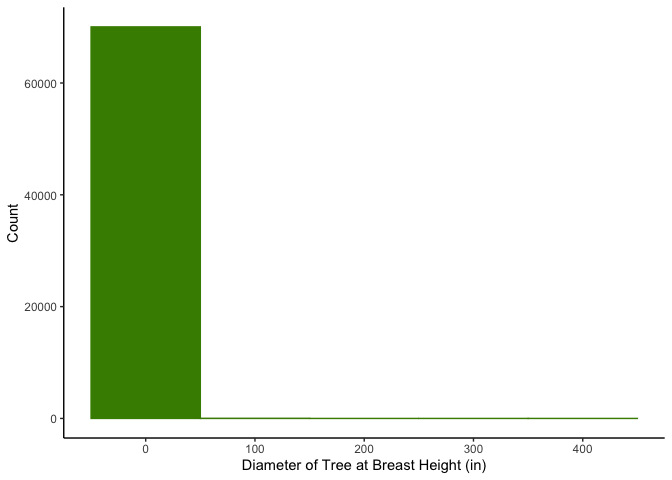
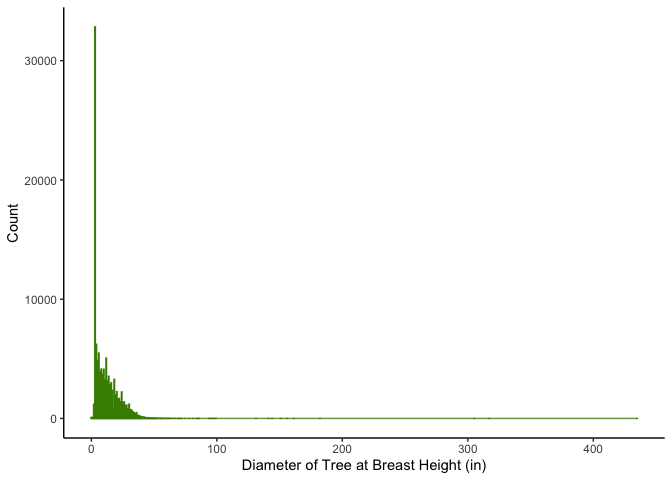
This commit represents changes in task 2. Specifically, exercise 3 and 4 were corrected.

diff --git a/mini-project-1.md b/mini-project-1.md
@@ -571,83 +571,7 @@ count_NA_long %>%
 
 ![](mini-project-1_files/figure-gfm/unnamed-chunk-8-1.png)<!-- -->
 
-#### **<span style="color: deeppink;">Exercise 2: Create a new variable based on other variables in your data (only if it makes sense)</span>**
-
-For this section of my data analysis, I will create a categorical
-variable (decade) from the existing numerical variable (date_planted).
-
-``` r
-vancouver_trees$year_planted <- as.numeric(format(vancouver_trees$date_planted,'%Y'))
-```
-
-``` r
-minimum_year <- min(vancouver_trees$year_planted, na.rm = TRUE)
-maximum_year <- max(vancouver_trees$year_planted, na.rm = TRUE)
-
-print(minimum_year)
-```
-
-    ## [1] 1989
-
-``` r
-print(maximum_year)
-```
-
-    ## [1] 2019
-
-After extracting the year from the date, and determining the minimum and
-maximum values for year stored in this dataset, I can now decide on the
-factor levels which will be as follows: 1980s, 1990s, 2000s, 2010s,
-2020s. I will now convert this numeric variable into a categorical
-variable below!
-
-``` r
-vancouver_trees_data_1980s <- vancouver_trees %>%
-  filter(1980<=year_planted, year_planted<1990) %>%
-  mutate(year = '1980s')
-
-vancouver_trees_data_1990s <- vancouver_trees %>%
-  filter(1990<=year_planted, year_planted<2000) %>%
-  mutate(year = '1990s')
-
-vancouver_trees_data_2000s <- vancouver_trees %>%
-  filter(2000<=year_planted, year_planted<2010) %>%
-  mutate(year = '2000s')
-
-vancouver_trees_data_2010s <- vancouver_trees %>%
-  filter(2010<=year_planted, year_planted<2020) %>%
-  mutate(year = '2010s')
-
-vancouver_trees_data_2020s <- vancouver_trees %>%
-  filter(2020<=year_planted) %>%
-  mutate(year = '2020s')
-
-vancouver_trees<- bind_rows(vancouver_trees_data_1980s,vancouver_trees_data_1990s,vancouver_trees_data_2000s,vancouver_trees_data_2010s,vancouver_trees_data_2020s)
-
-print(vancouver_trees)
-```
-
-    ## # A tibble: 70,063 × 22
-    ##    tree_id civic_number std_st…¹ genus…² speci…³ culti…⁴ commo…⁵ assig…⁶ root_…⁷
-    ##      <dbl>        <dbl> <chr>    <chr>   <chr>   <chr>   <chr>   <chr>   <chr>  
-    ##  1   31395         2105 W 32ND … TILIA   CORDATA <NA>    LITTLE… N       N      
-    ##  2   31396         2105 W 32ND … TILIA   CORDATA <NA>    LITTLE… N       N      
-    ##  3   30343         3621 W 30TH … PRUNUS  CERASI… ATROPU… PISSAR… N       N      
-    ##  4   30356         3727 W 30TH … PRUNUS  CERASI… ATROPU… PISSAR… N       N      
-    ##  5   30359         3749 W 30TH … PRUNUS  CERASI… ATROPU… PISSAR… N       N      
-    ##  6   83393         2888 HIGHBUR… PRUNUS  CERASI… ATROPU… PISSAR… N       N      
-    ##  7   38849         2198 W 41ST … PRUNUS  SERRUL… KWANZAN KWANZA… N       N      
-    ##  8  121796         5003 BOUNDAR… ACER    RUBRUM  RED SU… RED SU… N       N      
-    ##  9  121800         5035 BOUNDAR… ACER    RUBRUM  RED SU… RED SU… N       N      
-    ## 10  121802         5053 BOUNDAR… ACER    RUBRUM  RED SU… RED SU… N       N      
-    ## # … with 70,053 more rows, 13 more variables: plant_area <chr>,
-    ## #   on_street_block <dbl>, on_street <chr>, neighbourhood_name <chr>,
-    ## #   street_side_name <chr>, height_range_id <dbl>, diameter <dbl>, curb <chr>,
-    ## #   date_planted <date>, longitude <dbl>, latitude <dbl>, year_planted <dbl>,
-    ## #   year <chr>, and abbreviated variable names ¹std_street, ²genus_name,
-    ## #   ³species_name, ⁴cultivar_name, ⁵common_name, ⁶assigned, ⁷root_barrier
-
-#### **<span style="color: deeppink;">Exercise 3: Plot the distribution of a numeric variable</span>**
+### **<span style="color: deeppink;">Exercise 2: Plot the distribution of a numeric variable</span>**
 
 For this exercise, I intend to plot the distribution of the
 *height_range_id* of trees in Vancouver. I have created a histogram
@@ -661,9 +585,9 @@ vancouver_trees%>%
   labs(x = "Height Range of Tree (x10 ft)", y = "Count")
 ```
 
-![](mini-project-1_files/figure-gfm/unnamed-chunk-12-1.png)<!-- -->
+![](mini-project-1_files/figure-gfm/unnamed-chunk-9-1.png)<!-- -->
 
-#### **<span style="color: deeppink;">Exercise 4: Make a new tibble with a subset of your data, with variables and observations that you are interested in exploring</span>**
+### **<span style="color: deeppink;">Exercise 3: Create a new variable based on other variables in your data (only if it makes sense)</span>**
 
 The vancouver_trees dataset contains a variable named *height_range_ID*.
 This variable is stored as a numeric variable; however, in reality, it
@@ -682,27 +606,58 @@ values replaced with NA, and a new column has been created called
 ‘height’ which is a factor with the levels previously described.
 
 ``` r
-vancouver_trees <- vancouver_trees %>%
+vancouver_trees_height_factor <- vancouver_trees %>%
   mutate('height' = as.factor(height_range_id))
 height_factors <- c('0' = "0-10", '1' = "10-20", '2' = "20-30", '3' = "30-40", '4' = "40-50", '5' = "50-60", '6' = "60-70", '7' = "70-80", '8' = "80-90", '9' = "90-100", '10' = "Above 100")
-vancouver_trees$height <- recode_factor(vancouver_trees$height, !!!height_factors, .ordered = TRUE)
-levels(vancouver_trees$height)
+vancouver_trees_height_factor$height <- recode_factor(vancouver_trees_height_factor$height, !!!height_factors, .ordered = TRUE)
+levels(vancouver_trees_height_factor$height)
 ```
 
     ##  [1] "0-10"      "10-20"     "20-30"     "30-40"     "40-50"     "50-60"    
     ##  [7] "60-70"     "70-80"     "80-90"     "90-100"    "Above 100"
 
-<!----------------------------------------------------------------------------->
+### **<span style="color: deeppink;">Exercise 3: Make a new tibble with a subset of your data, with variables and observations that you are interested in exploring</span>**
 
-# Task 3: Write your research questions (5 points)
+For this exercise, I will create a new tibble, which will contain a
+subset of my data, more specifically the variables that I consider to be
+potentially relevant for my 4 research questions. Lastly, I will print
+the tibble to ensure that it has the correct number of columns and was
+subsetted correctly!
 
-So far, you have chosen a dataset and gotten familiar with it through
-exploring the data. Now it’s time to figure out 4 research questions
-that you would like to answer with your data! Write the 4 questions and
-any additional comments at the end of this deliverable. These questions
-are not necessarily set in stone - TAs will review them and give you
-feedback; therefore, you may choose to pursue them as they are for the
-rest of the project, or make modifications!
+``` r
+irrelevant_variables <- c("tree_id","civic_number","assigned","longitude","latitude")
+
+vancouver_trees_data <- vancouver_trees %>%
+  select(everything(),-irrelevant_variables)
+```
+
+    ## Note: Using an external vector in selections is ambiguous.
+    ## ℹ Use `all_of(irrelevant_variables)` instead of `irrelevant_variables` to silence this message.
+    ## ℹ See <https://tidyselect.r-lib.org/reference/faq-external-vector.html>.
+    ## This message is displayed once per session.
+
+``` r
+print(vancouver_trees_data)
+```
+
+    ## # A tibble: 146,611 × 15
+    ##    std_street    genus…¹ speci…² culti…³ commo…⁴ root_…⁵ plant…⁶ on_st…⁷ on_st…⁸
+    ##    <chr>         <chr>   <chr>   <chr>   <chr>   <chr>   <chr>     <dbl> <chr>  
+    ##  1 W 58TH AV     ULMUS   AMERIC… BRANDON BRANDO… N       N           400 W 58TH…
+    ##  2 W 58TH AV     ZELKOVA SERRATA <NA>    JAPANE… N       N           400 W 58TH…
+    ##  3 WINDSOR ST    STYRAX  JAPONI… <NA>    JAPANE… N       4          4900 WINDSO…
+    ##  4 E 39TH AV     FRAXIN… AMERIC… AUTUMN… AUTUMN… N       4           800 E 39TH…
+    ##  5 WINDSOR ST    ACER    CAMPES… <NA>    HEDGE … N       4          5000 WINDSO…
+    ##  6 W 61ST AV     PYRUS   CALLER… CHANTI… CHANTI… N       B           500 W 61ST…
+    ##  7 SHERBROOKE ST ACER    PLATAN… COLUMN… COLUMN… N       6          4900 SHERBR…
+    ##  8 SHERBROOKE ST ACER    PLATAN… COLUMN… COLUMN… N       6          4900 SHERBR…
+    ##  9 SHERBROOKE ST ACER    PLATAN… COLUMN… COLUMN… N       3          4900 SHERBR…
+    ## 10 E 39TH AV     FRAXIN… AMERIC… AUTUMN… AUTUMN… N       3           700 E 39TH…
+    ## # … with 146,601 more rows, 6 more variables: neighbourhood_name <chr>,
+    ## #   street_side_name <chr>, height_range_id <dbl>, diameter <dbl>, curb <chr>,
+    ## #   date_planted <date>, and abbreviated variable names ¹genus_name,
+    ## #   ²species_name, ³cultivar_name, ⁴common_name, ⁵root_barrier, ⁶plant_area,
+    ## #   ⁷on_street_block, ⁸on_street
 
 <!--- *****START HERE***** --->
 
@@ -783,20 +738,20 @@ vancouver_trees %>%
   summarize(range_diameter = max(diameter)-min(diameter), mean_diameter = mean(diameter), sd_diameter = sd(diameter), IQR_diameter = IQR(diameter))
 ```
 
-    ## # A tibble: 79 × 5
+    ## # A tibble: 97 × 5
     ##    genus_name  range_diameter mean_diameter sd_diameter IQR_diameter
     ##    <chr>                <dbl>         <dbl>       <dbl>        <dbl>
-    ##  1 ABIES                 31            6.94        5.53         8.25
-    ##  2 ACER                 317            5.59        4.42         4   
-    ##  3 AESCULUS              62            9.58       11.6          5   
-    ##  4 ALBIZIA                0            6          NA            0   
-    ##  5 ALNUS                 11            7.75        5.46         9.88
-    ##  6 AMELANCHIER           18.5          3.27        1.90         0   
-    ##  7 BETULA                39            9.05        5.53         5   
-    ##  8 CALOCEDRUS            18.8          6.61        5.19         6   
-    ##  9 CARPINUS              86            5.86        4.05         5   
-    ## 10 CASTANEA              11            5.2         4.92         0   
-    ## # … with 69 more rows
+    ##  1 ABIES                 41.5         12.9         9.71        16.5 
+    ##  2 ACER                 317           10.6         8.76        12   
+    ##  3 AESCULUS              64           23.7         9.57        11   
+    ##  4 AILANTHUS             18.5         15.9         8.64         5.38
+    ##  5 ALBIZIA                0            6          NA            0   
+    ##  6 ALNUS                 40           17.5         8.94        11.4 
+    ##  7 AMELANCHIER           20            3.21        1.79         0   
+    ##  8 ARALIA                 9            6.81        3.92         4.31
+    ##  9 ARAUCARIA             29           11.4         9.92         8.75
+    ## 10 ARBUTUS               27           18.4        10.7         20.8 
+    ## # … with 87 more rows
 
 #### **<span style="color: orange;">Graphing Task</span>**
 
@@ -826,7 +781,7 @@ vancouver_trees %>%
   theme_classic()
 ```
 
-![](mini-project-1_files/figure-gfm/unnamed-chunk-15-1.png)<!-- -->
+![](mini-project-1_files/figure-gfm/unnamed-chunk-13-1.png)<!-- -->
 
 ``` r
 vancouver_trees %>%
@@ -836,7 +791,7 @@ vancouver_trees %>%
   theme_classic()
 ```
 
-![](mini-project-1_files/figure-gfm/unnamed-chunk-16-1.png)<!-- -->
+![](mini-project-1_files/figure-gfm/unnamed-chunk-14-1.png)<!-- -->
 
 ``` r
 optimal_bin_width <- ((IQR(vancouver_trees$diameter))*2)/(length(vancouver_trees$diameter)^(1/3))
@@ -848,7 +803,7 @@ vancouver_trees %>%
   theme_classic()
 ```
 
-![](mini-project-1_files/figure-gfm/unnamed-chunk-17-1.png)<!-- -->
+![](mini-project-1_files/figure-gfm/unnamed-chunk-15-1.png)<!-- -->
 
 ### **<span style="color: deeppink;">Research Question \# 2: Which genus of trees in Vancouver has the greatest diameter?</span>**
 
@@ -873,11 +828,11 @@ print(vancouver_trees_top5)
     ## # A tibble: 5 × 2
     ##   genus_name     n
     ##   <chr>      <int>
-    ## 1 ACER       19544
-    ## 2 PRUNUS      8880
-    ## 3 FRAXINUS    4562
-    ## 4 CARPINUS    3812
-    ## 5 FAGUS       3400
+    ## 1 ACER       36062
+    ## 2 PRUNUS     30683
+    ## 3 FRAXINUS    7381
+    ## 4 TILIA       6773
+    ## 5 QUERCUS     6119
 
 #### **<span style="color: orange;">Graphing Task:</span>**
 
@@ -900,9 +855,9 @@ vancouver_trees %>%
   theme_linedraw()
 ```
 
-    ## Warning: Removed 14 rows containing non-finite values (stat_density).
+    ## Warning: Removed 61 rows containing non-finite values (stat_density).
 
-![](mini-project-1_files/figure-gfm/unnamed-chunk-19-1.png)<!-- -->
+![](mini-project-1_files/figure-gfm/unnamed-chunk-17-1.png)<!-- -->
 
 ### **<span style="color: deeppink;">Research Question \# 3: Is there a linear relationship between the height and diameter of trees?</span>**
 
@@ -923,20 +878,20 @@ vancouver_trees %>%
   summarize(range_height_range_id = max(height_range_id)-min(height_range_id), mean_height_range_id = mean(height_range_id), sd_height_range_id = sd(height_range_id), IQR_height_range_id = IQR(height_range_id))
 ```
 
-    ## # A tibble: 79 × 5
+    ## # A tibble: 97 × 5
     ##    genus_name  range_height_range_id mean_height_range_id sd_height_ra…¹ IQR_h…²
     ##    <chr>                       <dbl>                <dbl>          <dbl>   <dbl>
-    ##  1 ABIES                           5                 1.68          0.965    1   
-    ##  2 ACER                            8                 1.75          0.943    1   
-    ##  3 AESCULUS                        7                 2.20          1.60     1   
-    ##  4 ALBIZIA                         0                 2            NA        0   
-    ##  5 ALNUS                           3                 2.17          1.33     2   
-    ##  6 AMELANCHIER                     3                 1.13          0.479    0   
-    ##  7 BETULA                          5                 2.41          0.903    1   
-    ##  8 CALOCEDRUS                      5                 1.64          1.29     0.75
-    ##  9 CARPINUS                        6                 1.74          0.879    1   
-    ## 10 CASTANEA                        3                 2.4           1.14     1   
-    ## # … with 69 more rows, and abbreviated variable names ¹sd_height_range_id,
+    ##  1 ABIES                           9                 3.21          2.03     4   
+    ##  2 ACER                           10                 2.73          1.61     3   
+    ##  3 AESCULUS                        8                 4.60          1.47     2   
+    ##  4 AILANTHUS                       4                 3.5           1.73     1   
+    ##  5 ALBIZIA                         0                 2            NA        0   
+    ##  6 ALNUS                           6                 3.99          1.36     1   
+    ##  7 AMELANCHIER                     4                 1.11          0.459    0   
+    ##  8 ARALIA                          2                 1.75          0.957    1.25
+    ##  9 ARAUCARIA                       5                 2.5           1.58     1.75
+    ## 10 ARBUTUS                         5                 3.2           1.62     1.75
+    ## # … with 87 more rows, and abbreviated variable names ¹sd_height_range_id,
     ## #   ²IQR_height_range_id
 
 #### **<span style="color: orange;">Graphing Task</span>**
@@ -954,7 +909,7 @@ geom_point(size = 0.009, color="black") +
 
     ## `geom_smooth()` using method = 'gam' and formula 'y ~ s(x, bs = "cs")'
 
-![](mini-project-1_files/figure-gfm/unnamed-chunk-21-1.png)<!-- -->
+![](mini-project-1_files/figure-gfm/unnamed-chunk-19-1.png)<!-- -->
 
 ### **<span style="color: deeppink;">Research Question \# 4: Which neighborhood in Vancouver has the greatest biodiversity?</span>**
 
@@ -974,16 +929,16 @@ print(vancouver_trees_data_neighborhood)
     ## # A tibble: 22 × 2
     ##    neighbourhood_name           n
     ##    <chr>                    <int>
-    ##  1 ARBUTUS-RIDGE             2654
-    ##  2 DOWNTOWN                  2250
-    ##  3 DUNBAR-SOUTHLANDS         3773
-    ##  4 FAIRVIEW                  1414
-    ##  5 GRANDVIEW-WOODLAND        3094
-    ##  6 HASTINGS-SUNRISE          6075
-    ##  7 KENSINGTON-CEDAR COTTAGE  5844
-    ##  8 KERRISDALE                3011
-    ##  9 KILLARNEY                 2927
-    ## 10 KITSILANO                 2564
+    ##  1 ARBUTUS-RIDGE             5169
+    ##  2 DOWNTOWN                  5159
+    ##  3 DUNBAR-SOUTHLANDS         9415
+    ##  4 FAIRVIEW                  4002
+    ##  5 GRANDVIEW-WOODLAND        6703
+    ##  6 HASTINGS-SUNRISE         10547
+    ##  7 KENSINGTON-CEDAR COTTAGE 11042
+    ##  8 KERRISDALE                6936
+    ##  9 KILLARNEY                 6148
+    ## 10 KITSILANO                 8115
     ## # … with 12 more rows
 
 ``` r
@@ -998,16 +953,16 @@ print(vancouver_trees_data_neighborhood)
     ## # A tibble: 22 × 3
     ##    neighbourhood_name           n n_species
     ##    <chr>                    <int>     <int>
-    ##  1 ARBUTUS-RIDGE             2654        91
-    ##  2 DOWNTOWN                  2250        57
-    ##  3 DUNBAR-SOUTHLANDS         3773       109
-    ##  4 FAIRVIEW                  1414        65
-    ##  5 GRANDVIEW-WOODLAND        3094       102
-    ##  6 HASTINGS-SUNRISE          6075       122
-    ##  7 KENSINGTON-CEDAR COTTAGE  5844       120
-    ##  8 KERRISDALE                3011        90
-    ##  9 KILLARNEY                 2927        75
-    ## 10 KITSILANO                 2564        95
+    ##  1 ARBUTUS-RIDGE             5169       121
+    ##  2 DOWNTOWN                  5159        79
+    ##  3 DUNBAR-SOUTHLANDS         9415       161
+    ##  4 FAIRVIEW                  4002       119
+    ##  5 GRANDVIEW-WOODLAND        6703       146
+    ##  6 HASTINGS-SUNRISE         10547       176
+    ##  7 KENSINGTON-CEDAR COTTAGE 11042       159
+    ##  8 KERRISDALE                6936       138
+    ##  9 KILLARNEY                 6148       122
+    ## 10 KITSILANO                 8115       171
     ## # … with 12 more rows
 
 #### **<span style="color: orange;">Graphing Task:</span>**
@@ -1030,7 +985,7 @@ vancouver_trees_data_neighborhood %>%
   theme(axis.text.x = element_text(size=6))
 ```
 
-![](mini-project-1_files/figure-gfm/unnamed-chunk-24-1.png)<!-- -->
+![](mini-project-1_files/figure-gfm/unnamed-chunk-22-1.png)<!-- -->
 
 <!----------------------------------------------------------------------------->
 
